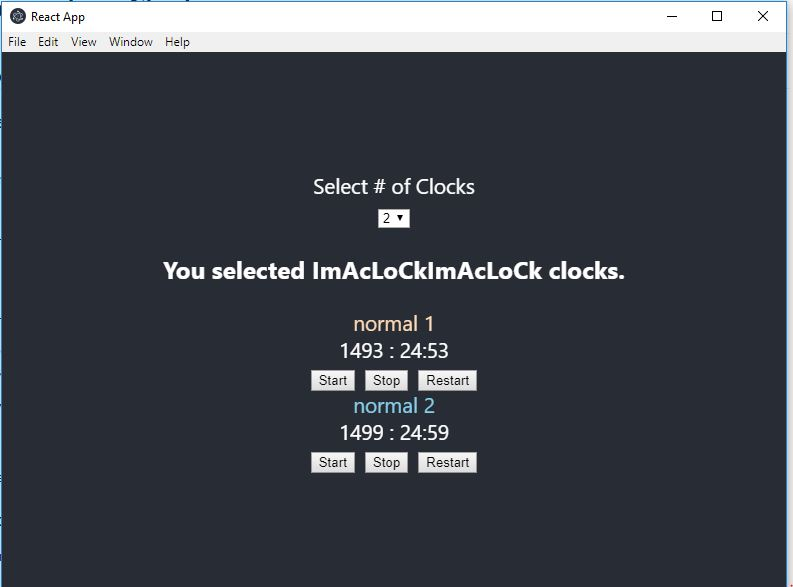
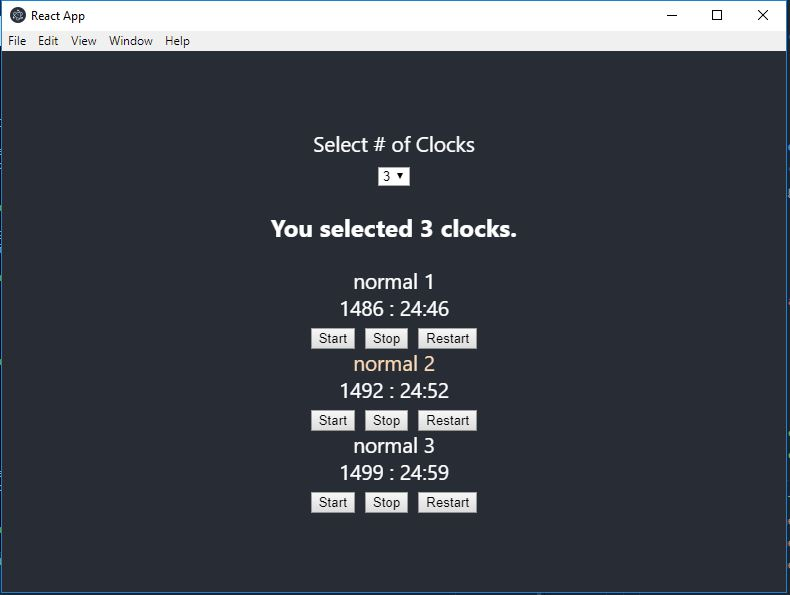
fix display of number of clocks

Changed region(s): [[0.0, 0.0, 1.0, 1.0], [0.2127, 0.4293, 0.7899, 0.8893], [0.3342, 0.2147, 0.6684, 0.3986]]

diff --git a/src/App.js b/src/App.js
@@ -36,7 +36,7 @@ class App extends Component {
             <audio id="audio" src="alarm.mp3" autostart="false"></audio>
           </div>
           <div>
-            <h3>You selected {this.state.numberOfClocks} clocks.</h3>
+            <h3>You selected {this.state.numberOfClocks.length} clocks.</h3>
           </div>
           {this.state.numberOfClocks.map((clock, index) => <Clock id={index} key={index} colorList={this.colorList}/>)}
         </header>
